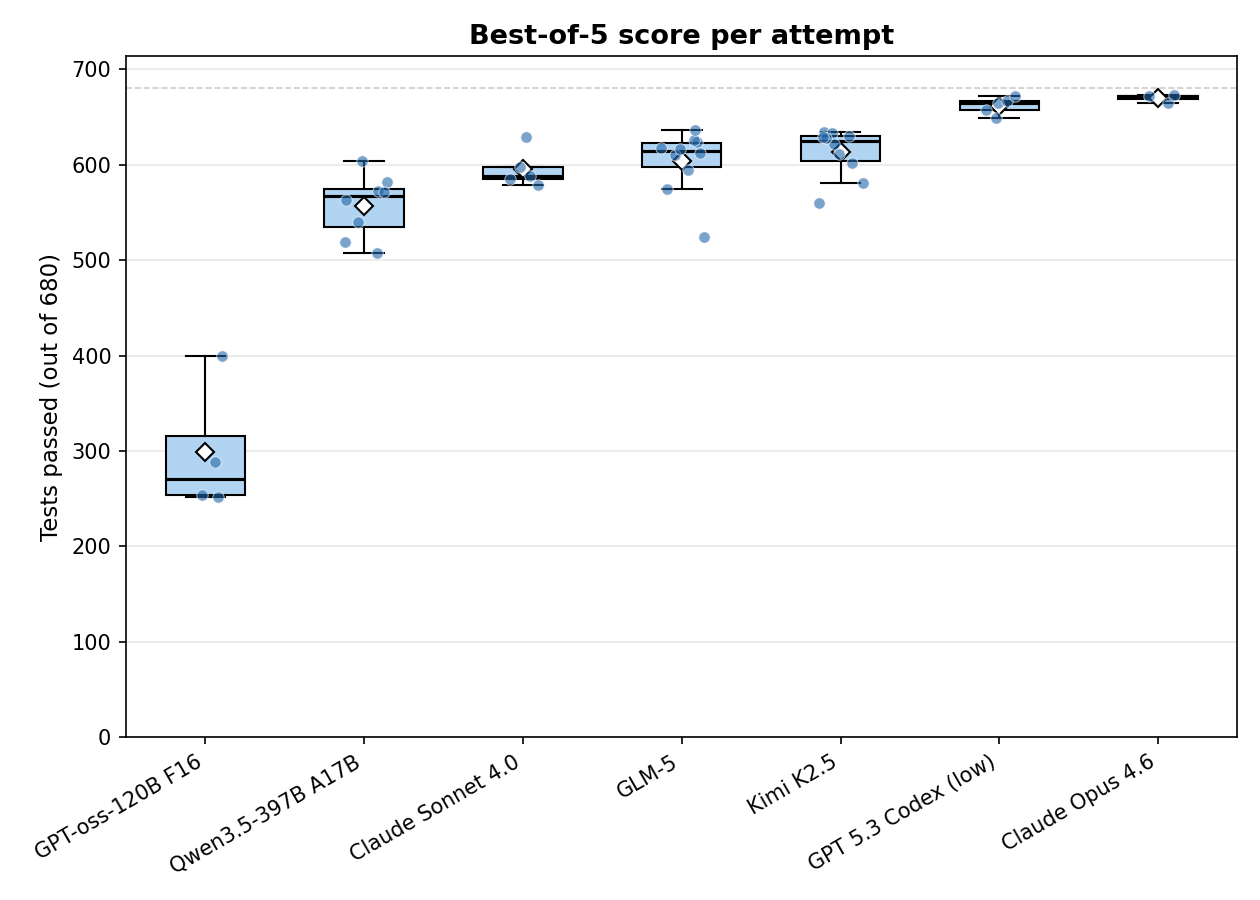
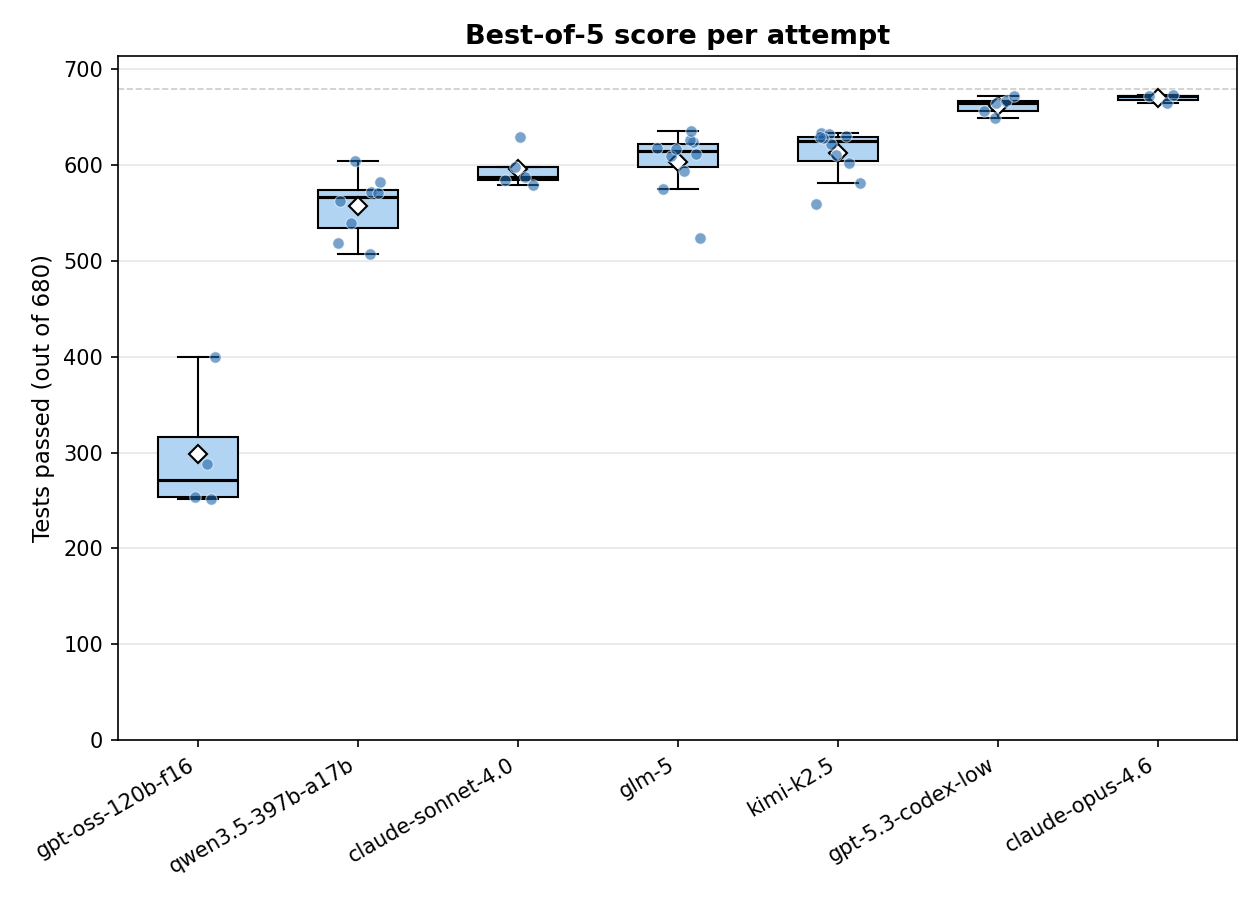
Add update_results.sh, switch to slug labels, document in README
New script update_results.sh automates summary/chart regeneration:
- Scans results/<task>/<slug>/meta.json to discover runs
- Counts attempts via data_dir, skips models with 0 attempts
- Generates summary.txt and chart.png per task
- Generates comparison.png across tasks
- Uses slugs as labels (no manual label mapping needed)

Switched plot_comparison.py MODEL_CONFIG to use slugs instead of
display names, matching what analyze_runs.py now receives from
update_results.sh.

Updated README.md:
- Added toml-1.0-c task description
- Added "Updating results" section documenting the workflow

diff --git a/plot_comparison.py b/plot_comparison.py
@@ -12,19 +12,20 @@ import numpy as np
 from plot_results import parse_summary
 
 # Model display order and category assignment.
+# Keys are slugs (as used by validation_bench.py and update_results.sh).
 # Categories: "proprietary" (closed-weight), "api" (open-weight via API), "local" (GGUF/local)
 MODEL_CONFIG = OrderedDict([
-    ("GPT 5.3 Codex (high)", "proprietary"),
-    ("GPT 5.3 Codex (low)",  "proprietary"),
-    ("Claude Opus 4.6",      "proprietary"),
-    ("Claude Sonnet 4.0",    "proprietary"),
-    ("GLM-5",                "api"),
-    ("Kimi K2.5",            "api"),
-    ("MiniMax M2.5",         "api"),
-    ("Devstral",             "api"),
-    ("GPT-oss-120B F16",     "local"),
-    ("Qwen3.5-397B A17B",    "local"),
-    ("Qwen3.5-122B Q8",      "local"),
+    ("gpt-5.3-codex-high",  "proprietary"),
+    ("gpt-5.3-codex-low",   "proprietary"),
+    ("claude-opus-4.6",     "proprietary"),
+    ("claude-sonnet-4.0",   "proprietary"),
+    ("glm-5",               "api"),
+    ("kimi-k2.5",           "api"),
+    ("minimax-m2.5",        "api"),
+    ("devstral",            "api"),
+    ("gpt-oss-120b-f16",    "local"),
+    ("qwen3.5-397b-a17b",   "local"),
+    ("qwen3.5-122b-q8",     "local"),
 ])
 
 CATEGORY_COLORS = {

diff --git a/README.md b/README.md
@@ -39,6 +39,10 @@ CLI arguments:
 
 ## Tasks
 
+### `toml-1.0-c`
+
+TOML v1.0.0 file validation in C11. Same test data as `toml-1.0-cpp` (678 cases) but compiled with `clang -std=c11 -O2`. Forces manual memory management — no `std::string`, `std::map`, `std::vector`, exceptions, or RAII.
+
 ### `toml-1.0-cpp`
 
 TOML v1.0.0 file validation in C++17. The prompt embeds the full TOML 1.0 specification with version-appropriate rules: no `\e` or `\xHH` escape sequences, seconds required in datetime values, and inline tables restricted to single lines without trailing commas. Test data: 678 cases (205 valid, 473 invalid) sourced from [toml-test](https://github.com/toml-lang/toml-test) `files-toml-1.0.0` (MIT licensed). Validated against Python's `tomllib` with 678/678 match (0 discrepancies).
@@ -61,3 +65,23 @@ Each line in `tests.jsonl` has the following fields:
 - `input_file` (string): path to input file relative to task directory — mutually exclusive with `input`/`input_hex`, used for large or structured test data (e.g., TOML files)
 - `expected`: `"valid"` or `"invalid"`
 - `label`: human-readable test description
+
+## Updating results
+
+After running benchmarks, regenerate all summaries and charts:
+
+```bash
+./update_results.sh
+```
+
+This script:
+1. Scans `results/<task>/<slug>/meta.json` to discover runs
+2. Counts attempts via each run's `data_dir` (from `meta.json`)
+3. Skips models with 0 attempts
+4. Runs `analyze_runs.py --verbose` per task → `results/<task>/summary.txt`
+5. Runs `plot_results.py` per task → `results/<task>/chart.png`
+6. Runs `plot_comparison.py` → `results/comparison.png`
+
+Model slugs are used as labels everywhere (summaries, charts, comparison).
+
+To add a new model to the comparison chart's ordering/categories, edit `MODEL_CONFIG` in `plot_comparison.py`. Models not listed in `MODEL_CONFIG` still appear in per-task charts but are excluded from the comparison.
